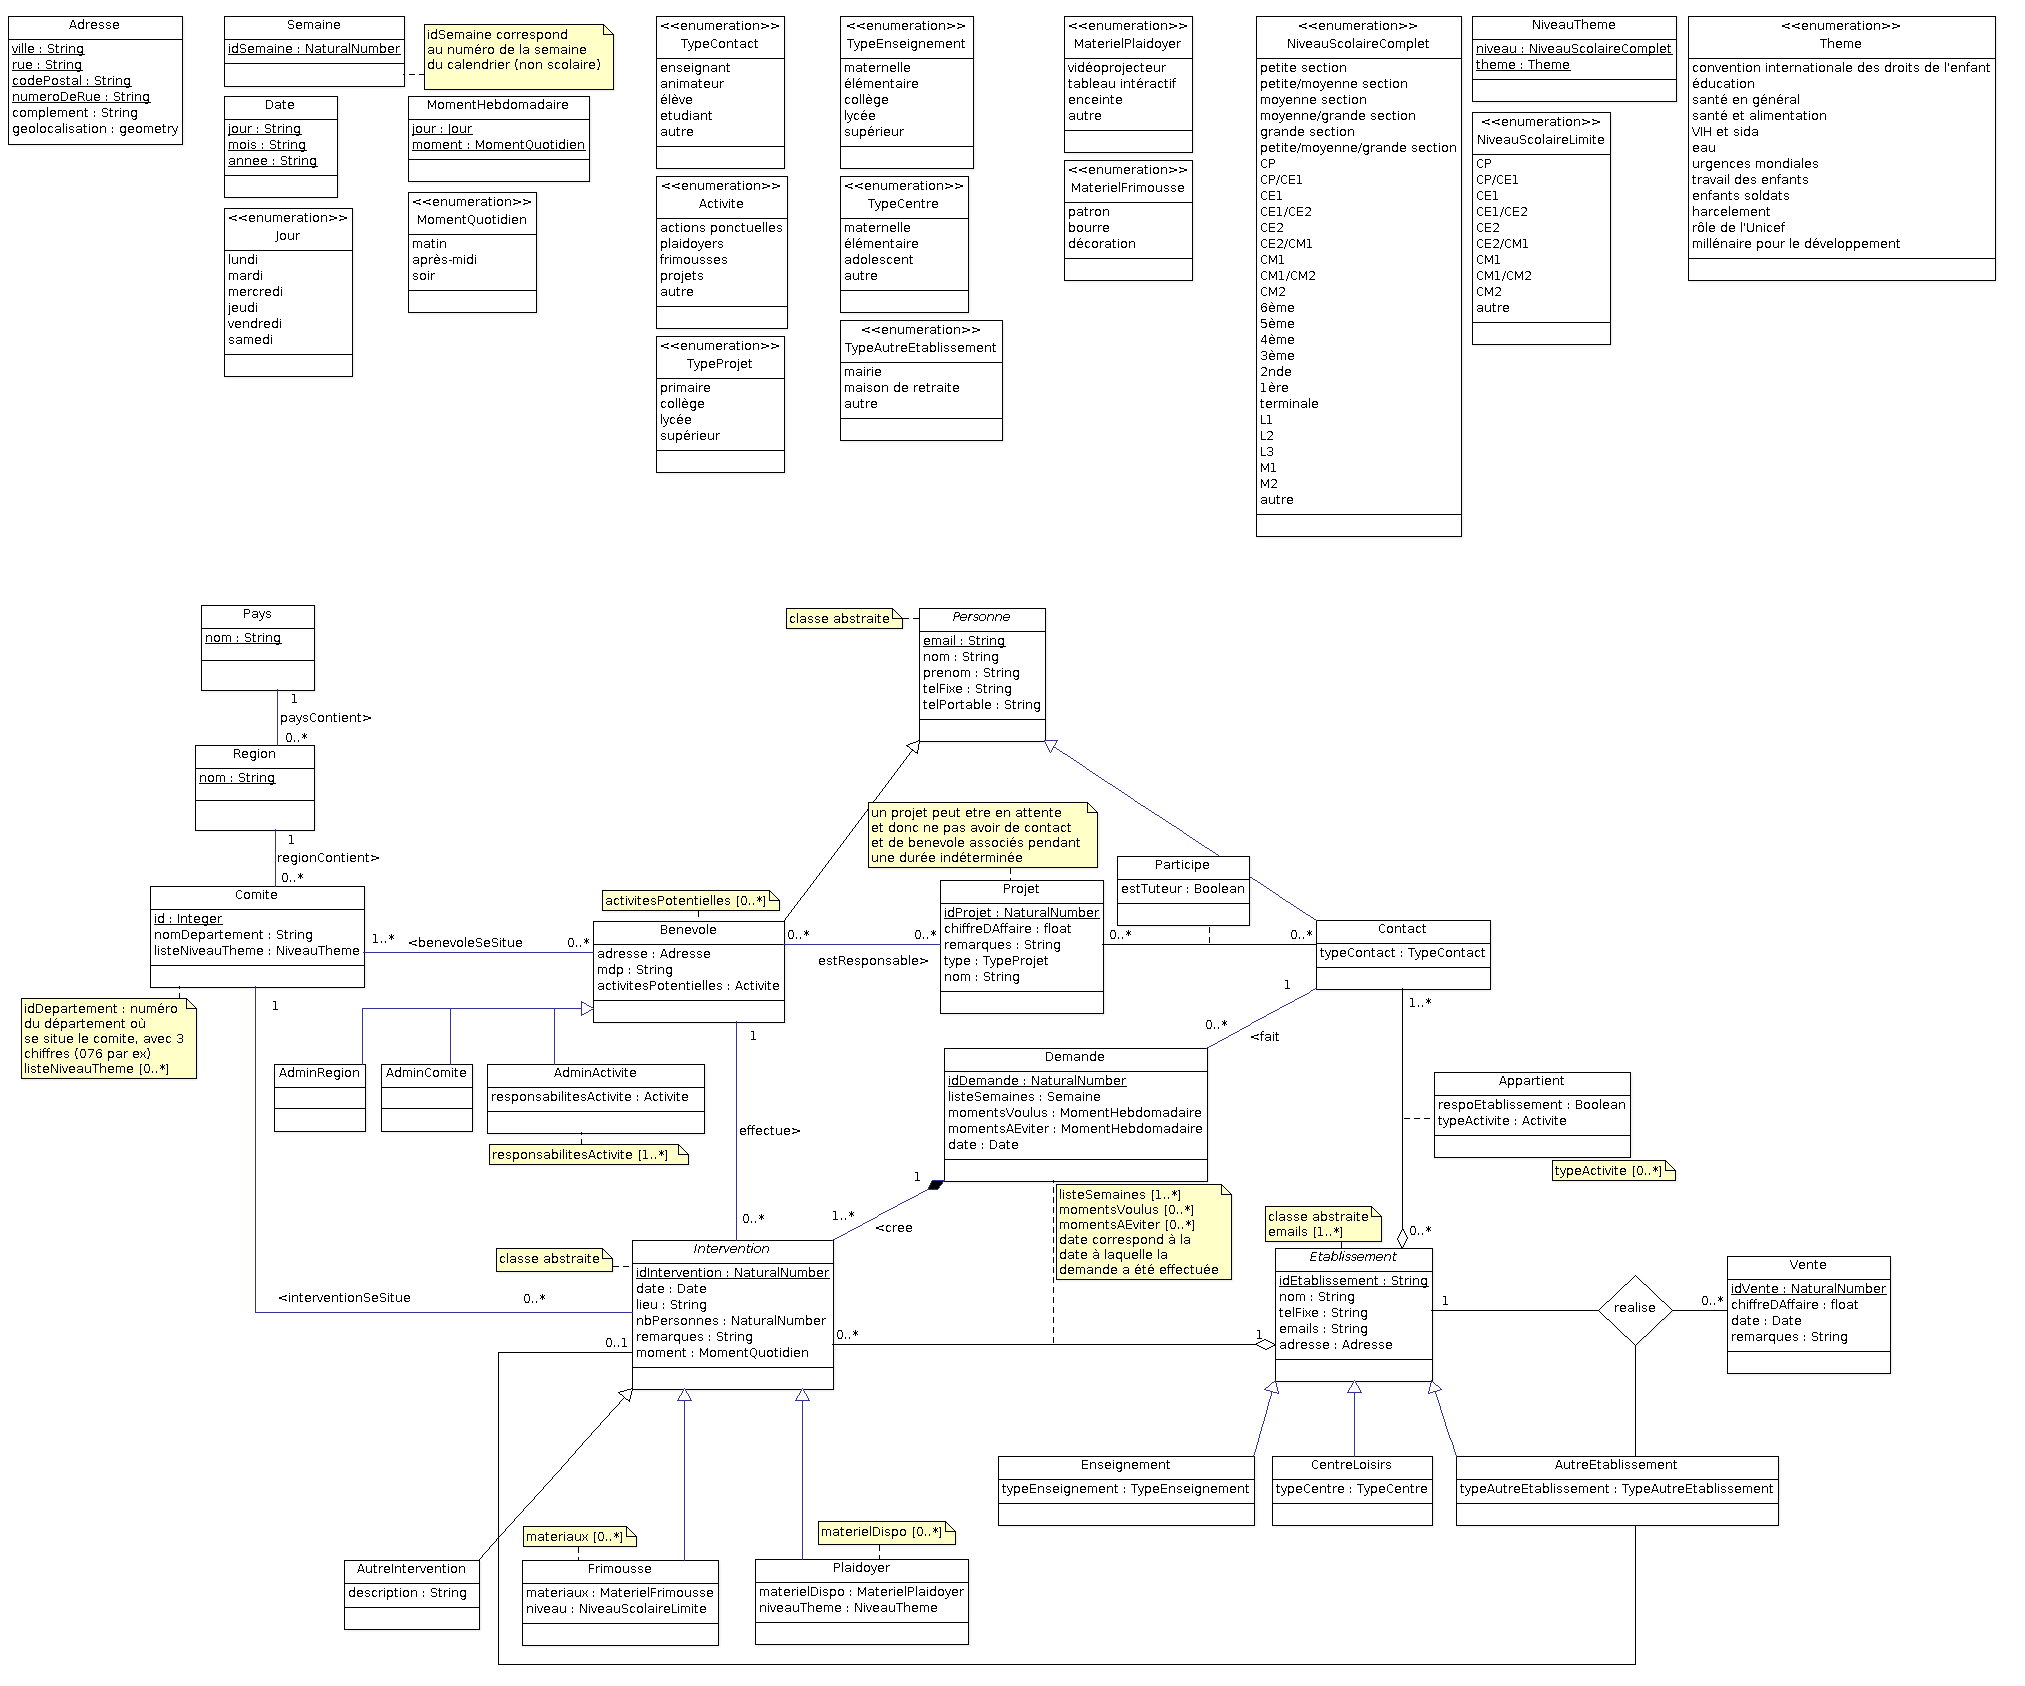
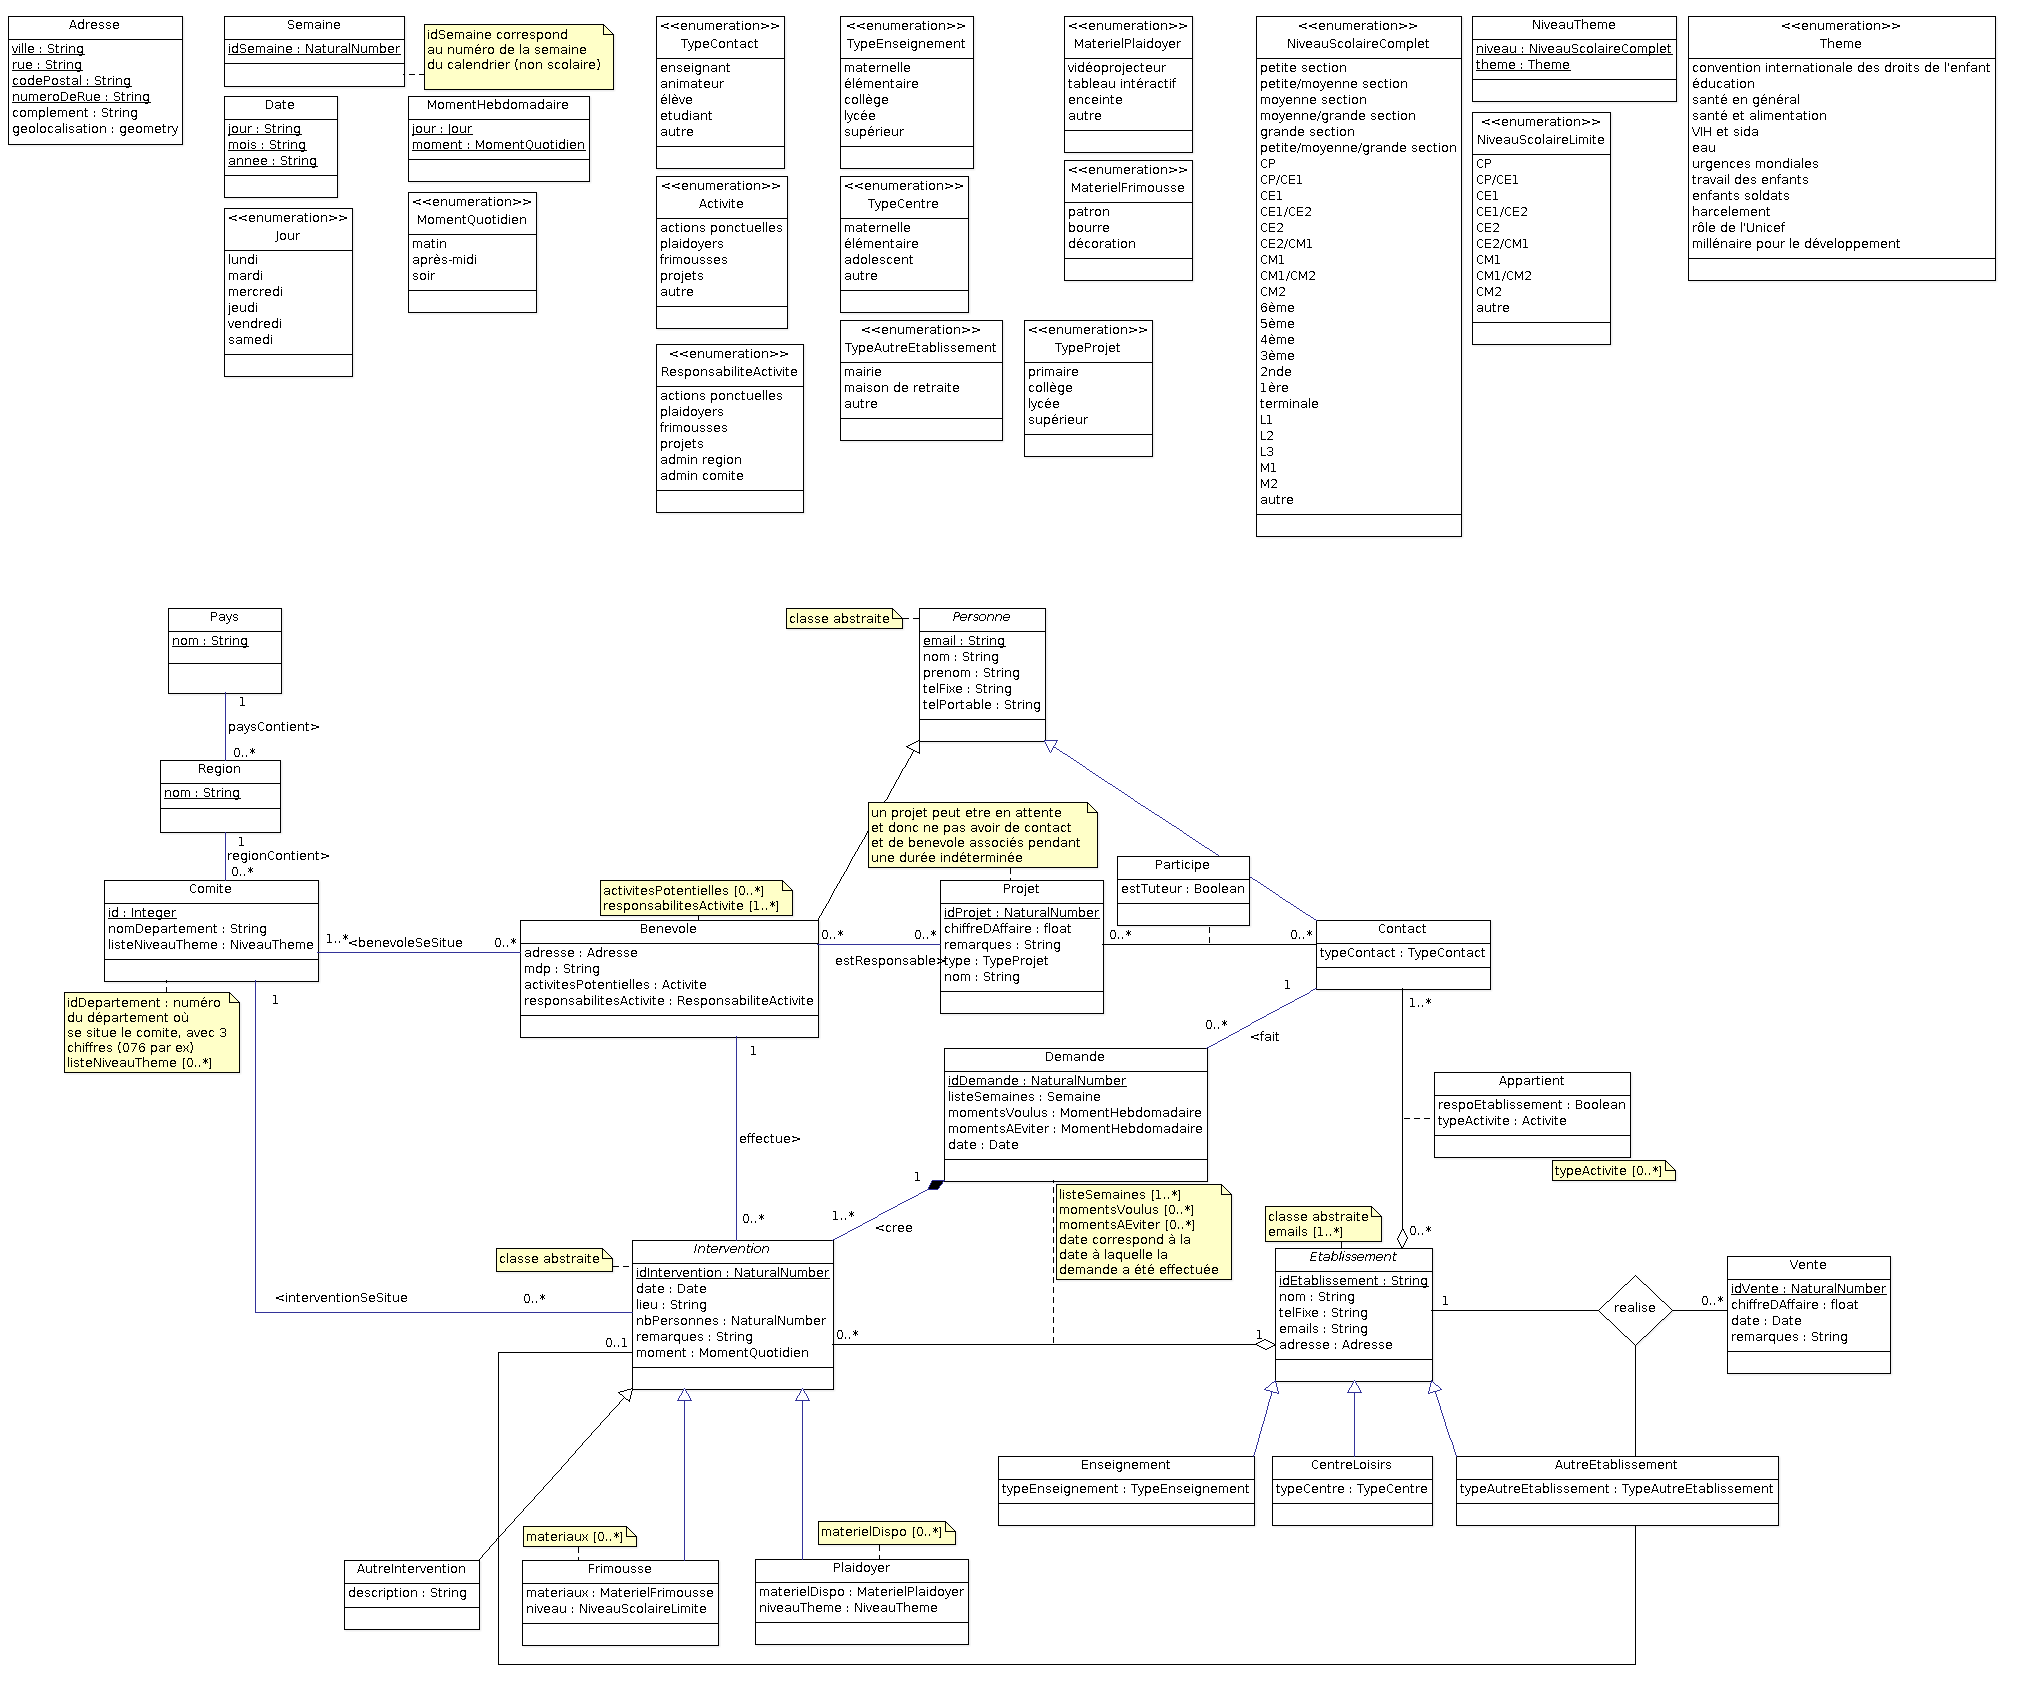
modification dictionnaire de données

diff --git a/developpement/lot2/DCP/diagrammeClasses/sources/descriptionDiagrammeDeClasseSource.tex b/developpement/lot2/DCP/diagrammeClasses/sources/descriptionDiagrammeDeClasseSource.tex
@@ -82,6 +82,10 @@ Le type TypeContact est une énumération qui définit les différents contacts 
 
 Le type Activite est une énumération qui définit les différentes activités que peuvent réaliser les bénévoles. il représente également l'Activité dont un Contact travaillant dans un Etablissement peut être responsable.
 
+\subsubsection*{ResponsabiliteActivite}
+
+Le type Activite est une énumération qui définit les différentes activités dont un bénévole peut être responsable, mais également si un bénébole est un administrateur d'un comité et/ou d'une région.
+
 \subsubsection*{TypeProjet}
 
 Le type TypeProjet est une énumération qui définit les différents niveaux pour les projets.
@@ -144,29 +148,15 @@ Cette classe a plusieurs attributs :
 
 \subsubsection*{Benevole}
 
-La classe Benevole est une classe fille de la classe Personne et la classe mère des classes AdminActivite, AdminComite et AdminRegion. Cette classe décrit les bénévoles de l'UNICEF qui réaliseront des interventions mais aussi ceux qui géreront des activités (AdminActivite), des comités (AdminComite) ou des régions (AdminRegion). L'héritage est ici une spécialisation, c'est à dire qu'une personne peut être simplement bénévole sans être administrateur. \\
+La classe Benevole est une classe fille de la classe Personne. Cette classe décrit les bénévoles de l'UNICEF qui réaliseront des interventions mais aussi ceux qui géreront des activités, des comités ou des régions.\\
 Cette classe a plusieurs attributs : 
 \begin{itemize}
 \item une adresse correspondant à la rue, au numéro de rue, au code postal, à la ville, au complément si besoin et à une géolocalisation;
 \item un mot de passe;
-\item aucune, une ou plusieurs activités potentielles (action ponctuelle, plaidoyer, frimousse, projet ou autre).
+\item aucune, une ou plusieurs activités potentielles (action ponctuelle, plaidoyer, frimousse, projet ou autre);
+\item aucune, une ou plusieurs responsabilités d'activité (action ponctuelle, plaidoyer, frimousse, projet, admin region ou admin comite). 
 \end{itemize}
 
-\subsubsection*{AdminActivite}
-
-La classe AdminActivite permet de représenter un administrateur d'une ou plusieurs activités (administrateur local du cahier des charges). Cette classe est une classe fille de la classe Benevole.\\
-Cette classe a un attribut :
-\begin{itemize}
-\item une ou plusieurs responsabilités d'activité (action ponctuelle, plaidoyer, frimousse, projet ou autre). 
-\end{itemize}
-
-\subsubsection*{AdminComite}
-
-La classe AdminComite permet de représenter un administrateur de comité. Cette classe est une classe fille de la classe Benevole. 
-
-\subsubsection*{AdminRegion}
-
-La classe AdminRegion permet de représenter un administrateur de région, une région ayant en générale plusieurs comités. Cette classe est une classe fille de la classe Benevole. 
 
 \subsubsection*{Contact}
 
@@ -391,15 +381,9 @@ Contraintes de domaine et de nullité des attributs :
 \begin{itemize}
  	\item \textbf{adresse :} variable de type \textbf{Adresse}, attribut non nul;
 	\item \textbf{mdp :} chaîne de caractère de longueur de 50 caractères au maximum, de 8 caractères au minimum, attribut non nul;  
-	\item \textbf{activitesPotentielles :} constante de type \textbf{Activite}, attribut multivalué, attribut  peut être nul.\\
+	\item \textbf{activitesPotentielles :} constante de type \textbf{Activite}, attribut multivalué, attribut  peut être nul;
+	\item \textbf{responsabilitesActivite :} constante de type \textbf{ResponsabiliteActivite}, attribut multivalué, peut être nul.\\
 \end{itemize}  
-
-\subsubsection*{AdminActivite}
-Contraintes de domaine et de nullité des attributs :
-\begin{itemize}
-\item \textbf{responsabilitesActivite :} constante de type \textbf{Activite}, attribut multivalué, peut être nul.\\
-\end{itemize}
-
  
 \subsubsection*{Contact}
 Contraintes de domaine et de nullité des attributs :
@@ -773,12 +757,9 @@ Dans cette sous-partie, nous allons déterminer les dépendances fonctionnelles 
 \subsubsection*{Benevole}
 \begin{itemize}
 \item[] email $\rightarrow > $ activitesPotentielles 
-\end{itemize}
-
-\subsubsection*{AdminActivite}
-\begin{itemize}
 \item[]email $\rightarrow >$ activitesPotentielles 
 \end{itemize}
+
 
 \subsubsection*{Etablissement}
 \begin{itemize}

diff --git a/developpement/lot2/DCP/diagrammeClasses/descriptionDiagrammeDeClasse.tex b/developpement/lot2/DCP/diagrammeClasses/descriptionDiagrammeDeClasse.tex
@@ -8,7 +8,7 @@
 
 \title{Dictionnaire de données}
 \author{\Mathieu, \Julie}
-\date{19/04/2016} 
+\date{13/05/2016} 
 
 \maketitle
 
